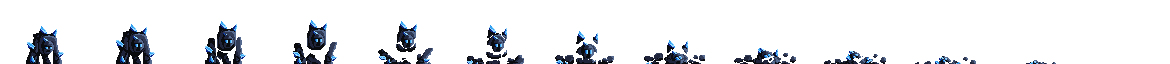
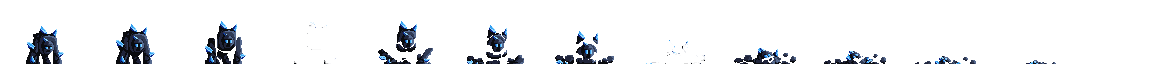
Enemyの死アニメーションを変更

Changed region(s): [[0.2462, 0.3438, 0.3077, 1.0], [0.5231, 0.6562, 0.6154, 1.0]]

diff --git a/DonkeyKongAkasaki/EnemyGolem.h b/DonkeyKongAkasaki/EnemyGolem.h
@@ -6,7 +6,8 @@ class EnemyGolem :public Enemy
 	{
 		Normal,
 		Damage,
-		Death
+		Death,
+		DeathEffect
 	};
 public:
 	EnemyGolem();

diff --git a/DonkeyKongAkasaki/EnemyMush.h b/DonkeyKongAkasaki/EnemyMush.h
@@ -6,7 +6,8 @@ class EnemyMush :public Enemy
 	{
 		Normal,
 		Damage,
-		Death
+		Death,
+		DeathEffect,
 	};
 public:
 	EnemyMush();
